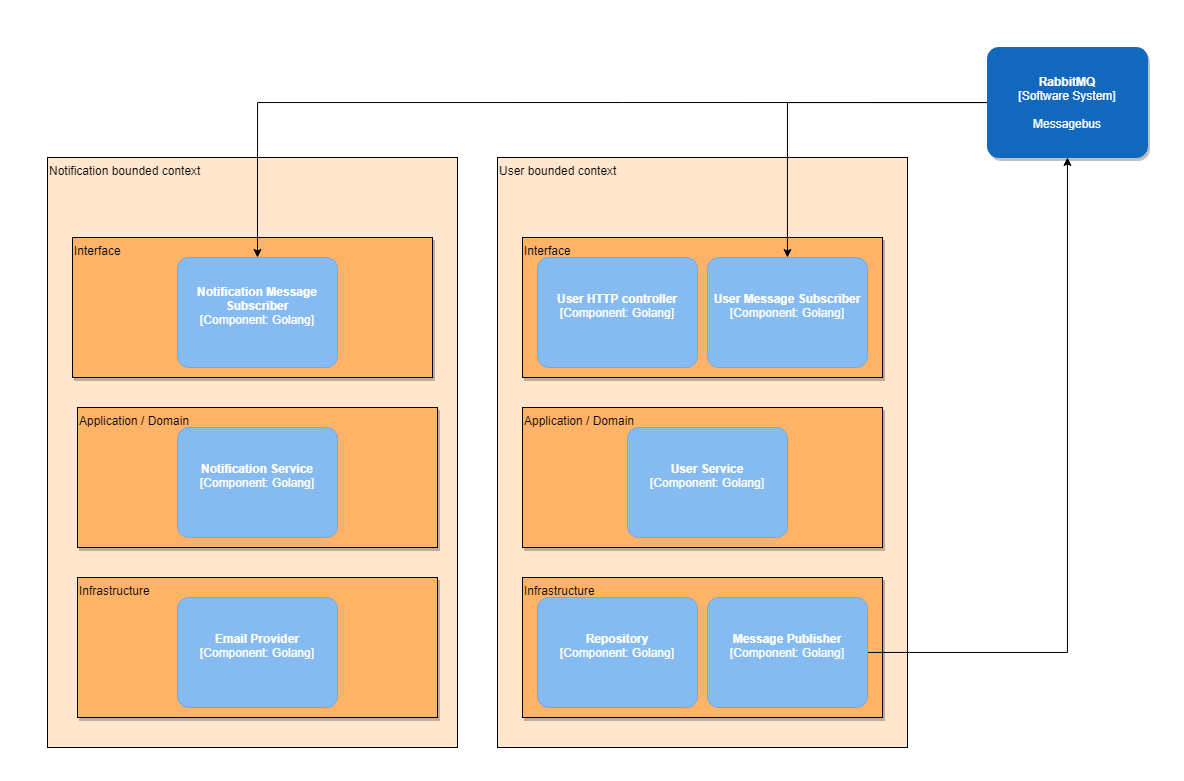
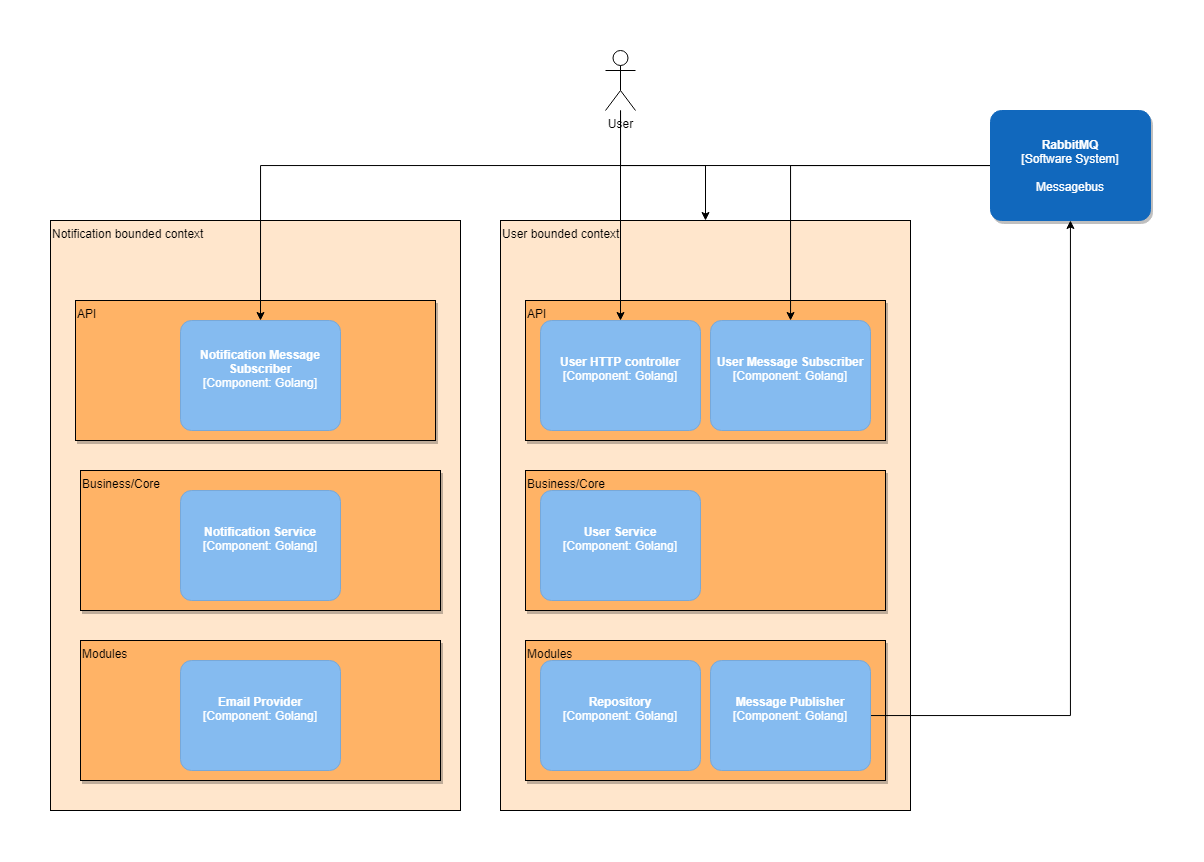
Change naming folder to hexagonal

diff --git a/server/app/main.go b/server/app/main.go
@@ -1,20 +1,20 @@
 package main
 
 import (
-	userApplication "asiap/pkg/user/application"
-	userMessagePublisher "asiap/pkg/user/infrastructure/amqp"
-	userRepository "asiap/pkg/user/infrastructure/repository"
-	userAmqpInterface "asiap/pkg/user/interfaces/amqp"
-	userHttp "asiap/pkg/user/interfaces/http"
-	"fmt"
+	userAmqpInterface "asiap/pkg/user/api/amqp"
+	userHttp "asiap/pkg/user/api/http"
+	userBusiness "asiap/pkg/user/business"
+	userMessagePublisher "asiap/pkg/user/modules/amqp"
+	userRepository "asiap/pkg/user/modules/repository"
 
-	notificationApplication "asiap/pkg/notification/application"
-	notificationMessageEmailProvider "asiap/pkg/notification/infrastructure/email"
-	notificationAmqpInterface "asiap/pkg/notification/interfaces/amqp"
+	notificationAmqpInterface "asiap/pkg/notification/api/amqp"
+	notificationBusiness "asiap/pkg/notification/business"
+	notificationMessageEmailProvider "asiap/pkg/notification/modules/email"
 
 	amqpCommon "asiap/pkg/common/amqp"
 
 	"context"
+	"fmt"
 	"os"
 	"os/signal"
 	"time"
@@ -42,12 +42,12 @@ func main() {
 
 	userMsgPub := userMessagePublisher.NewAMQPService(publisher)
 	userRepo := userRepository.NewMemoryRepository()
-	userService := userApplication.NewUserService(userRepo, userMsgPub)
+	userService := userBusiness.NewUserService(userRepo, userMsgPub)
 	userController := userHttp.NewController(userService)
 	userMessageHandlers := userAmqpInterface.NewUserAMQPInterface(userService)
 
 	notificationEmailProvider := notificationMessageEmailProvider.NewEmailMockProvider()
-	notificationService := notificationApplication.NewNotificationService(notificationEmailProvider)
+	notificationService := notificationBusiness.NewNotificationService(notificationEmailProvider)
 	notificationMessageHandlers := notificationAmqpInterface.NewNotificationAMQPInterface(notificationService)
 
 	/////////////////// Create Message Router
@@ -77,7 +77,7 @@ func main() {
 
 	router.AddNoPublisherHandler(
 		"print_outgoing_messages_in_notification",
-		"notification.#",
+		"notification.emailNotificationSent",
 		subscriber,
 		printMessages,
 	)

diff --git a/server/pkg/user/api/http/controller.go b/server/pkg/user/api/http/controller.go
@@ -2,7 +2,7 @@ package http
 
 import (
 	common "asiap/pkg/common/http"
-	"asiap/pkg/user/application"
+	"asiap/pkg/user/business"
 	"net/http"
 
 	v10 "github.com/go-playground/validator/v10"
@@ -11,12 +11,12 @@ import (
 
 //Controller Get item API controller
 type Controller struct {
-	service   application.UserService
+	service   business.UserService
 	validator *v10.Validate
 }
 
 //NewController Construct item API controller
-func NewController(service application.UserService) *Controller {
+func NewController(service business.UserService) *Controller {
 	return &Controller{
 		service,
 		v10.New(),
@@ -56,7 +56,7 @@ func (controller *Controller) AddUserRegistration(c echo.Context) error {
 		return c.JSON(http.StatusBadRequest, common.NewBadRequestResponse())
 	}
 
-	cmd := application.AddUserRegistrationCommand{ID: createItemRequest.ID, Name: createItemRequest.Name, Email: createItemRequest.Email, Location: createItemRequest.Location, ManagerID: createItemRequest.ManagerID}
+	cmd := business.AddUserRegistrationCommand{ID: createItemRequest.ID, Name: createItemRequest.Name, Email: createItemRequest.Email, Location: createItemRequest.Location, ManagerID: createItemRequest.ManagerID}
 	err := controller.service.AddUserRegistration(cmd)
 
 	if err != nil {

diff --git a/server/pkg/notification/api/amqp/userCreated.go b/server/pkg/notification/api/amqp/userCreated.go
@@ -2,7 +2,7 @@ package amqp
 
 import (
 	"asiap/pkg/common/event"
-	"asiap/pkg/notification/application"
+	"asiap/pkg/notification/business"
 	"encoding/json"
 	"log"
 
@@ -12,10 +12,10 @@ import (
 )
 
 type UserCreatedHandler struct {
-	service application.NotificationService
+	service business.NotificationService
 }
 
-func NewUserCreatedHandler(s application.NotificationService) *UserCreatedHandler {
+func NewUserCreatedHandler(s business.NotificationService) *UserCreatedHandler {
 	return &UserCreatedHandler{s}
 }
 
@@ -40,14 +40,14 @@ func (h UserCreatedHandler) Handler(msg *message.Message) ([]*message.Message, e
 
 	h.service.SendEmailNotification(p.Email)
 
-	userRegistration := event.EmailNotificationSentMsg{
+	emailNotificationMsg := event.EmailNotificationSentMsg{
 		ID:    p.ID,
 		Email: p.Email,
 	}
 
-	b, err := json.Marshal(userRegistration)
+	b, err := json.Marshal(emailNotificationMsg)
 	if err != nil {
-		return nil, errors.Wrap(err, "cannot marshal userRegistration for amqp")
+		return nil, errors.Wrap(err, "cannot marshal emailNotificationMsg for amqp")
 	}
 
 	msg = message.NewMessage(watermill.NewUUID(), b)

diff --git a/server/pkg/user/api/amqp/userApproved.go b/server/pkg/user/api/amqp/userApproved.go
@@ -2,7 +2,7 @@ package amqp
 
 import (
 	"asiap/pkg/common/event"
-	"asiap/pkg/user/application"
+	"asiap/pkg/user/business"
 	"encoding/json"
 	"log"
 
@@ -12,10 +12,10 @@ import (
 )
 
 type UserApprovedHandler struct {
-	service application.UserService
+	service business.UserService
 }
 
-func NewUserApprovedHandler(s application.UserService) *UserApprovedHandler {
+func NewUserApprovedHandler(s business.UserService) *UserApprovedHandler {
 	return &UserApprovedHandler{s}
 }
 

diff --git a/server/pkg/notification/api/amqp/amqp.go b/server/pkg/notification/api/amqp/amqp.go
@@ -2,10 +2,10 @@ package amqp
 
 import (
 	amqpCommon "asiap/pkg/common/amqp"
-	"asiap/pkg/notification/application"
+	"asiap/pkg/notification/business"
 )
 
-func NewNotificationAMQPInterface(s application.NotificationService) []amqpCommon.MessageHandler {
+func NewNotificationAMQPInterface(s business.NotificationService) []amqpCommon.MessageHandler {
 	userCreatedHandler := NewUserCreatedHandler(s)
 
 	return []amqpCommon.MessageHandler{userCreatedHandler}

diff --git a/server/pkg/user/api/amqp/amqp.go b/server/pkg/user/api/amqp/amqp.go
@@ -2,10 +2,10 @@ package amqp
 
 import (
 	amqpCommon "asiap/pkg/common/amqp"
-	"asiap/pkg/user/application"
+	"asiap/pkg/user/business"
 )
 
-func NewUserAMQPInterface(s application.UserService) []amqpCommon.MessageHandler {
+func NewUserAMQPInterface(s business.UserService) []amqpCommon.MessageHandler {
 	userApprovedHandler := NewUserApprovedHandler(s)
 
 	return []amqpCommon.MessageHandler{userApprovedHandler}

diff --git a/server/pkg/notification/business/notification.go b/server/pkg/notification/business/notification.go
@@ -1,7 +1,7 @@
-package application
+package business
 
 import (
-	"asiap/pkg/notification/domain/notification"
+	"asiap/pkg/notification/core/notification"
 
 	"github.com/pkg/errors"
 )

diff --git a/server/pkg/user/business/user.go b/server/pkg/user/business/user.go
@@ -1,7 +1,7 @@
-package application
+package business
 
 import (
-	"asiap/pkg/user/domain/user"
+	"asiap/pkg/user/core/user"
 
 	"github.com/pkg/errors"
 )

diff --git a/server/pkg/user/api/http/response.go b/server/pkg/user/api/http/response.go
@@ -1,7 +1,7 @@
 package http
 
 import (
-	"asiap/pkg/user/domain/user"
+	"asiap/pkg/user/core/user"
 )
 
 type AddUserRegistrationResponse struct {

diff --git a/server/pkg/user/modules/repository/memory.go b/server/pkg/user/modules/repository/memory.go
@@ -1,7 +1,7 @@
 package repository
 
 import (
-	"asiap/pkg/user/domain/user"
+	"asiap/pkg/user/core/user"
 )
 
 type MemoryRepository struct {
